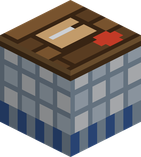
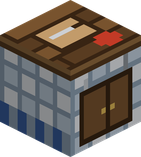
Cruise Blocks page for 0.3.0: village blocks, and the benches show their front

Changed region(s): [[0.4823, 0.4076, 1.0, 1.0]]

diff --git a/docs/mods/cruise/blocks.md b/docs/mods/cruise/blocks.md
@@ -13,7 +13,7 @@ tags:
 
 # Blocks
 
-Cruise's blocks, drawn from the game's own models: the benches of the trades, the lockers, the stone and the nine woods. Each viewer turns (drag), zooms (scroll or pinch) and changes block with its buttons.
+Cruise's blocks, drawn from the game's own models: the benches of the trades, the lockers, the stone and the nine woods, and the villages' own blocks. Each viewer turns (drag), zooms (scroll or pinch) and changes block with its buttons.
 
 ## Workstations
 
@@ -63,6 +63,15 @@ The [Miner](trades/miner.md) turns Marble into building blocks at the Masonry; a
 | ![](block-models/polished-marble.png){ .block-icon } **Polished Marble** | Masonry, from Marble |
 | ![](block-models/polished-marble-slab.png){ .block-icon } **Polished Marble Slab** | Masonry, from Marble |
 | ![](block-models/explosive-rock.png){ .block-icon } **Explosive Rock** | found by the Miner; it goes off in the hands of anyone else |
+
+## Village blocks
+
+Two blocks of the [villages](villages.md) can be taken and put down elsewhere.
+
+| Block | What it is |
+|---|---|
+| ![](block-models/notice-board.png){ .block-icon } **Notice Board** | the board of a village's market square: a right click shows the day's five orders of the village it stands in. Carried out of a village, it shows none. |
+| **Chimney Cap** | the cap of a chimney, a brick slab to the eye, from which smoke rises: steady by day, thin in the dead of night. Every chimney of a village has one; take it and your own house smokes too. |
 
 ## The nine woods
 

diff --git a/docs/mods/cruise/villages.md b/docs/mods/cruise/villages.md
@@ -40,7 +40,7 @@ The islands are lived in. **One Piece villages** rise in the plains, in the mead
 | **Inland** | a windmill, with its fields of wheat, Bitter Grass and Medicinal Herb. |
 | **The farm** | animals in its pen; a cat or a dog hangs about the square. |
 
-A village on a slope has roads that climb from house to house: every door is joined to the market square, with never more than one block to step up. Smoke rises from the chimneys, and the bell rings at dawn and at dusk.
+A village on a slope has roads that climb from house to house: every door is joined to the market square, with never more than one block to step up. Smoke rises from the chimneys (each wears a **Chimney Cap**, a [block](blocks.md#village-blocks) you can take for your own roof), and the bell rings at dawn and at dusk.
 
 **Every village has a name**: Honey Village, Anchor Town, Komura... It comes up on your screen as you walk in, and the Navigator's [Log Book](bestiary-and-logbook.md) keeps the names of the villages you have been to.
 

diff --git a/docs/mods/cruise/village-events.md b/docs/mods/cruise/village-events.md
@@ -52,7 +52,7 @@ See the [Musician](trades/musician.md) for the tunes, the instruments and the XP
 
 ## A fever in the village
 
-The people of a village fall ill for a day. **A third of the adults** have it: some keep to their beds, the others drag themselves about. A **doctor** sets up on the square, by the notice board.
+The people of a village fall ill for a day. **A third of the adults** have it: some keep to their beds, the others drag themselves about. A doctor, the **Village Doctor**, sets up on the square, by the notice board.
 
 Right click him to see his list: **three everyday remedies** of the [Chemist](trades/chemist.md)'s, a few of each, among
 
